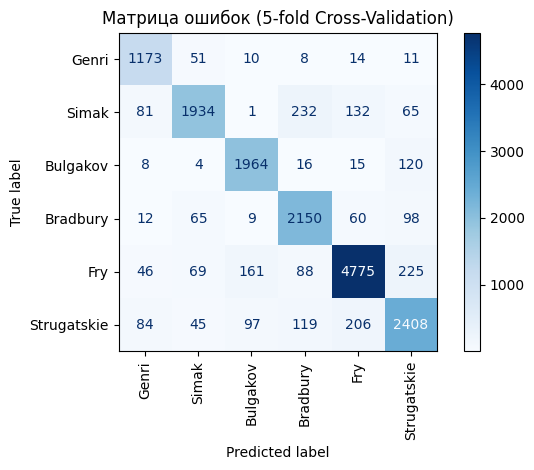
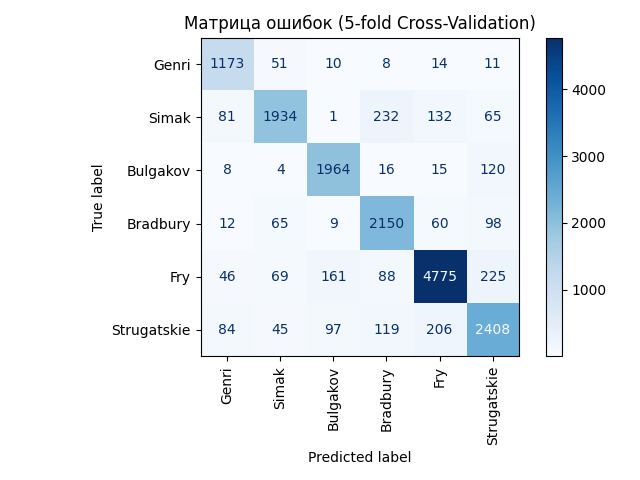
описание добавила и чуть чуть доработала код

diff --git a/WriterExtnd_sbert/README.md b/WriterExtnd_sbert/README.md
@@ -31,7 +31,7 @@
 Выбран двухэтапный подход:
 
 1.  **Генерация Эмбеддингов (Векторизация):**
-    * **Модель:** `sentence-transformers` с предобученной моделью `sberbank-ai/sbert_large_nlu_ru`. 
+    * **Модель:** `sentence-transformers` с предобученной моделью `sberbank-ai/sbert_large_nlu_ru`.
     * *Обоснование:* SBERT (Sentence-BERT) – это state-of-the-art подход для получения семантически насыщенных векторных представлений предложений и коротких текстов. Модель `sberbank-ai/sbert_large_nlu_ru` специально обучена на большом корпусе русскоязычных текстов и хорошо подходит для задач NLP на русском языке, включая улавливание стилистических нюансов. Эмбеддинги нормализуются (`normalize_embeddings=True`), что часто улучшает работу последующих метрических алгоритмов, таких как SVM.
 2.  **Классификация:**
     * **Модель:** `sklearn.svm.LinearSVC` (Линейный метод опорных векторов).
@@ -41,9 +41,9 @@
 
 * **`SENTENCES_PER_CHUNK`:** Установлено значение `10`. Этот параметр влияет на гранулярность анализа стиля и объем обучающей выборки. Его можно варьировать для поиска оптимального значения.
 * **`LinearSVC`:**
-    * **`C` (параметр регуляризации):** Подбирается автоматически с помощью `sklearn.model_selection.GridSearchCV`. Поиск осуществляется по сетке значений `[0.1, 1, 10, 100, 1000]`.
-        * *Обоснование:* `GridSearchCV` позволяет найти оптимальное значение `C`, балансируя между точностью на обучающей выборке и обобщающей способностью модели, используя кросс-валидацию.
-    * **Кросс-валидация:** Используется k-fold CV (`k` равно `min(5, min_samples_per_class)`), чтобы обеспечить надежную оценку качества модели при подборе `C` и избежать переобучения на конкретное разбиение данных.
+    * **Гиперпараметры (`C`, `loss`):** Подбираются автоматически с помощью `sklearn.model_selection.GridSearchCV`. Поиск осуществляется по сетке значений для `C`: `[6, 7, 8, 9, 10]` и для `loss`: `['hinge', 'squared_hinge']`.
+        * *Обоснование:* `GridSearchCV` позволяет найти оптимальную комбинацию гиперпараметров, балансируя между точностью на обучающей выборке и обобщающей способностью модели, используя кросс-валидацию.
+    * **Кросс-валидация:** Используется k-fold CV (`k` равно `min(5, min_samples_per_class)`), чтобы обеспечить надежную оценку качества модели при подборе гиперпараметров и избежать переобучения на конкретное разбиение данных.
     * **Другие параметры:** `max_iter=2000` для гарантии сходимости, `random_state=42` для воспроизводимости, `dual=True` для решения двойственной задачи оптимизации (обычно предпочтительно при большом количестве признаков).
 
 ## 3. Исходный код и ключевые этапы работы
@@ -62,8 +62,9 @@
 
 Установить их можно с помощью pip:
 ```bash
-pip install pandas numpy scikit-learn sentence-transformers nltk torch tensorflow
+pip install pandas numpy scikit-learn sentence-transformers nltk torch matplotlib seaborn
 ```
+*(Примечание: Tensorflow устанавливается отдельно, если выбран как бэкенд для sentence-transformers)*
 
 Также необходимо загрузить пакет `punkt` для `nltk`:
 ```python
@@ -76,18 +77,20 @@ nltk.download('punkt')
 ```
 WriterExtnd_sbert/
 │
-├── writerextnd/                                        # Папка с данными
+├── writerextnd/                              # Папка с данными
 │   ├── Bradbury.txt
 │   ├── Genri.txt
 │   ├── Simak.txt
 │   ├── Bulgakov.txt
 │   ├── Strugatskie.txt
 │   ├── Fry.txt
-│   └── author*.txt                                     # Тестовые файлы
+│   └── author*.txt                           # Тестовые файлы
 │
-├── writerextnd_bert_v2.ipynb                           # Jupyter Notebook с кодом
-├── submission_sbert_chunked_gridsearch.csv             # Результирующий файл с предсказаниями
-└── README.md                                           # Файл с описание проекта
+├── writerextnd_bert_v2.ipynb                 # Jupyter Notebook с кодом
+├── submission_sbert_chunked_gridsearch_v2.csv # Результирующий файл с предсказаниями
+├── confusion_matrix_cv.png                   # Сохраненная матрица ошибок
+├── tsne_embeddings.png                       # Сохраненная t-SNE визуализация
+└── README.md                                 # Файл с описание проекта
 ```
 
 ### 3.3. Этапы выполнения (описание кода)
@@ -95,12 +98,12 @@ WriterExtnd_sbert/
 Полный исходный код с комментариями представлен в файле `[writerextnd_bert_v2.ipynb]`. Основные шаги:
 
 1.  **Импорты и Настройки:** Загрузка библиотек, определение констант (имя модели SBERT, путь к данным, размер чанка), настройка словарей авторов и их ID.
-2.  **Загрузка NLTK и Модели SBERT:** Проверка наличия пакета `punkt` и загрузка предобученной модели `sentence-transformers`.
+2.  **Загрузка NLTK:** Проверка наличия пакета `punkt`.
 3.  **Загрузка и Предобработка Обучающих Данных:** Чтение файлов авторов, разбиение на предложения (`nltk`), формирование чанков, создание списков `chunked_train_texts` и `chunked_train_author_ids`.
 4.  **Загрузка Тестовых Данных:** Чтение файлов `author*.txt`, сохранение текстов и их ID (`test_data`, `test_ids_sorted`).
-5.  **Генерация Эмбеддингов:** Преобразование обучающих чанков и тестовых текстов в векторы с помощью загруженной модели SBERT (`model_st.encode`).
+5.  **Генерация Эмбеддингов:** Загрузка модели SBERT (`SentenceTransformer`), преобразование обучающих чанков и тестовых текстов в векторы (`model_st.encode`).
 6.  **Построение и Обучение Модели:**
-    * Определение сетки `param_grid` для гиперпараметра `C`.
+    * Определение сетки `param_grid` для гиперпараметров `C` и `loss`.
     * Настройка `GridSearchCV` с базовым классификатором `LinearSVC` и k-fold кросс-валидацией.
     * Обучение `GridSearchCV` на обучающих эмбеддингах (`grid_search.fit`).
     * Получение лучшего классификатора (`classifier = grid_search.best_estimator_`).
@@ -108,20 +111,21 @@ WriterExtnd_sbert/
 7.  **Предсказание и Сохранение Результатов:**
     * Получение предсказаний для тестовых эмбеддингов (`classifier.predict`).
     * Формирование `pandas.DataFrame` с ID тестовых файлов и предсказанными ID авторов.
-    * Сохранение DataFrame в файл `submission_sbert_chunked_gridsearch.csv`.
+    * Сохранение DataFrame в файл `submission_sbert_chunked_gridsearch_v2.csv`.
+8.  **Дополнительный анализ результатов (Блок 14):** Построение матрицы ошибок, визуализация t-SNE, анализ ошибочных предсказаний на обучающих данных с помощью кросс-валидации.
 
 ## 4. Результаты и анализ
 
 ### 4.1. Оценка модели (на кросс-валидации)
 
-В результате работы `GridSearchCV` на обучающих чанках были получены следующие результаты:
+В результате работы `GridSearchCV` на обучающих чанках (согласно комментариям в коде для одного из запусков) были получены следующие результаты:
 
-* **Лучшее значение `C`:** `[10]`
-* **Лучшая средняя точность (accuracy) на кросс-валидации (`k`-fold):** `[87%]`
+* **Лучшие параметры:** `{'C': 7, 'loss': 'squared_hinge'}`
+* **Лучшая средняя точность (accuracy) на кросс-валидации (`k`-fold):** `0.8700` (87%)
 
 *Важно:* Эта оценка получена на *обучающих данных* (чанках) в процессе кросс-валидации и служит для выбора гиперпараметров. Финальная оценка качества модели проводилась на [kaggle.com](https://www.kaggle.com/competitions/writerextnd/submissions).
 
-Файл с предсказаниями `submission_sbert_chunked_gridsearch.csv` был загружен и оценен Kaggle. Результаты оценки:
+Файл с предсказаниями `submission_sbert_chunked_gridsearch_v2.csv` был загружен и оценен Kaggle. Результаты оценки:
 
 * **Private Score:** 0.90909
 * **Public Score:** 0.80000
@@ -133,18 +137,18 @@ WriterExtnd_sbert/
 Скрипт выводит примеры предсказаний для первых тестовых файлов:
 
 ```
-    ID файла: author1  -> Предсказан ID: 0 (Автор: Genri)
-    ID файла: author2  -> Предсказан ID: 1 (Автор: Simak)
-    ID файла: author3  -> Предсказан ID: 0 (Автор: Genri)
-    ID файла: author4  -> Предсказан ID: 2 (Автор: Bulgakov)
-    ID файла: author5  -> Предсказан ID: 0 (Автор: Genri)
-  ... (и так далее)
+     ID файла: author1  -> Предсказан ID: 0 (Автор: Genri)
+     ID файла: author2  -> Предсказан ID: 1 (Автор: Simak)
+     ID файла: author3  -> Предсказан ID: 0 (Автор: Genri)
+     ID файла: author4  -> Предсказан ID: 2 (Автор: Bulgakov)
+     ID файла: author5  -> Предсказан ID: 0 (Автор: Genri)
+   ... (и так далее)
 ```
-Итоговый файл `submission_sbert_chunked_gridsearch.csv` содержит полный список предсказаний для всех тестовых файлов.
+Итоговый файл `submission_sbert_chunked_gridsearch_v2.csv` содержит полный список предсказаний для всех тестовых файлов.
 
 ### 4.3. Визуализации и анализ ошибок (на обучающих данных)
 
-Для более глубокого понимания работы модели и ее ошибок, в основной скрипт ([writerextnd_bert_v2.ipynb]) был добавлен блок анализа. Этот анализ выполняется на **обучающих данных** с использованием предсказаний, полученных методом кросс-валидации (`cross_val_predict`). Такой подход дает более объективную оценку производительности на "невидимых" для каждой конкретной итерации модели данных по сравнению с оценкой на полном обучающем наборе.
+Для более глубокого понимания работы модели и ее ошибок, в основной скрипт ([writerextnd_bert_v2.ipynb]) был добавлен блок анализа (Блок 14). Этот анализ выполняется на **обучающих данных** с использованием предсказаний, полученных методом кросс-валидации (`cross_val_predict`). Такой подход дает более объективную оценку производительности на "невидимых" для каждой конкретной итерации модели данных по сравнению с оценкой на полном обучающем наборе.
 
 Были реализованы и визуализированы следующие шаги анализа:
 
@@ -175,9 +179,10 @@ WriterExtnd_sbert/
 ### 5.1. Выводы
 
 * Разработан пайплайн для решения задачи атрибуции авторства русскоязычных текстов.
-* Подход, основанный на эмбеддингах SBERT (`sberbank-ai/sbert_large_nlu_ru`) и классификаторе `LinearSVC`, показал работоспособность и достиг точности `[87%]` на кросс-валидации обучающих данных.
+* Подход, основанный на эмбеддингах SBERT (`sberbank-ai/sbert_large_nlu_ru`) и классификаторе `LinearSVC`, показал работоспособность и достиг точности `0.8700` (87%) на кросс-валидации обучающих данных (согласно результатам одного из запусков GridSearchCV).
 * Техника чанкинга позволила эффективно использовать доступные текстовые данные для обучения.
-* Подбор гиперпараметра `C` (лучшие пока 10) для `LinearSVC` с помощью `GridSearchCV` позволил оптимизировать модель.
+* Подбор гиперпараметров `C` и `loss` (лучшие найденные в одном из запусков: `C=7`, `loss='squared_hinge'`) для `LinearSVC` с помощью `GridSearchCV` позволил оптимизировать модель.
+* Финальная точность на скрытой тестовой выборке Kaggle составила `0.90909`.
 
 ### 5.2. Рекомендации по дальнейшему улучшению
 
@@ -185,6 +190,6 @@ WriterExtnd_sbert/
 * **Другие модели эмбеддингов:** Исследовать другие предобученные модели `sentence-transformers` (включая многоязычные или другие русскоязычные варианты) или даже подходы на основе TF-IDF в качестве бейзлайна.
 * **Другие классификаторы:** Попробовать альтернативные модели поверх эмбеддингов SBERT: Logistic Regression, Random Forest, Gradient Boosting (XGBoost, LightGBM, CatBoost) или даже небольшие нейронные сети.
 * **Валидация:** Если возможно, выделить отдельный валидационный набор данных (не участвующий в `GridSearchCV`) для финальной оценки модели и более надежной настройки гиперпараметров перед предсказанием на тесте.
-* **Анализ ошибок:** Реализовать построение матрицы ошибок и детальный анализ текстов, на которых модель ошибается, для выявления слабых мест.
+* **Анализ ошибок:** Продолжить детальный анализ текстов, на которых модель ошибается (используя матрицу ошибок и примеры из Блока 13), для выявления слабых мест и возможных путей улучшения специфично для определенных авторов.
 * **Предобработка:** Хотя SBERT часто устойчив к "шуму" в тексте, можно попробовать применить дополнительную очистку текста (удаление специфических символов, возможно, приведение к нижнему регистру, хотя для стиля это может быть важно).
-* **Аугментация данных:** Рассмотреть техники аугментации текста, если это применимо к сохранению стиля (например, back-translation), для увеличения разнообразия обучающей выборки.
+* **Аугментация данных:** Рассмотреть техники аугментации текста, если это применимо к сохранению стиля (например, back-translation), для увеличения разнообразия обучающей выборки, особенно для классов с малым числом примеров.
